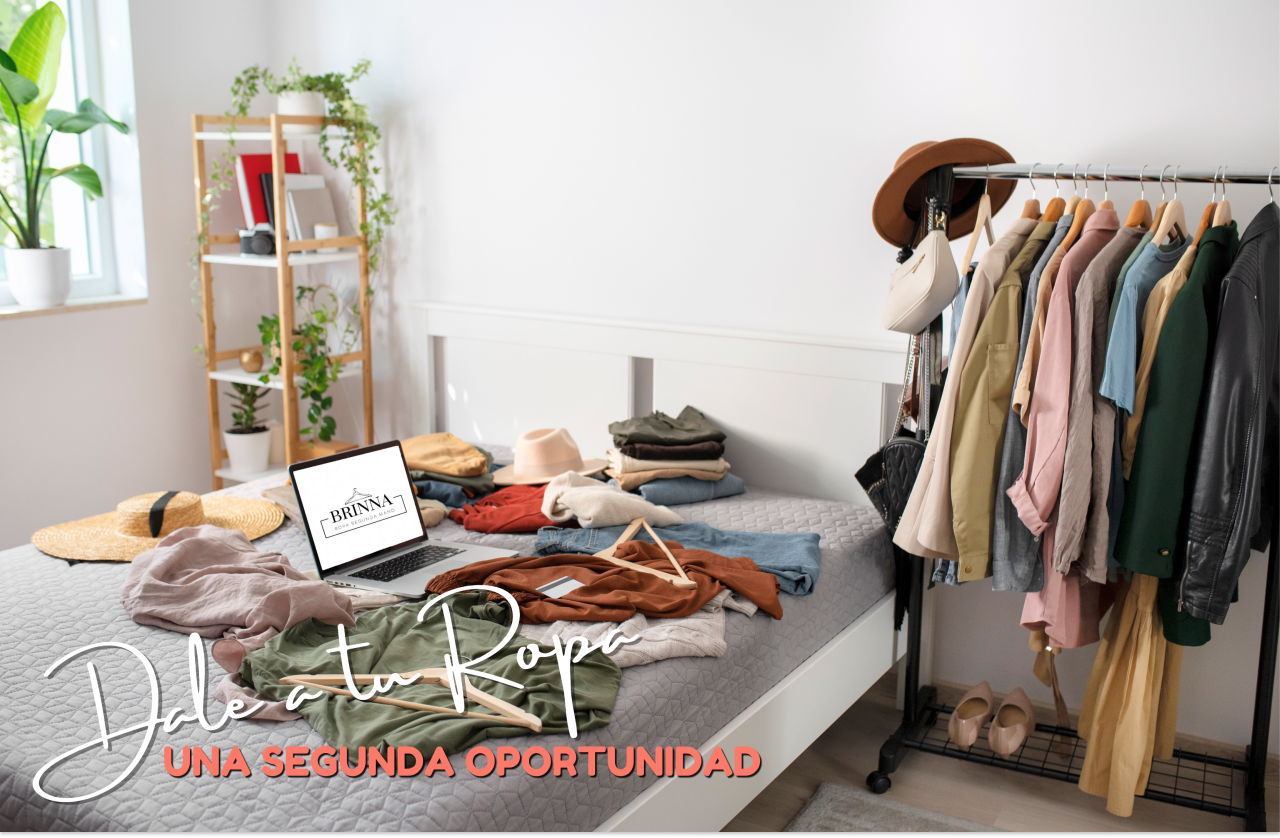
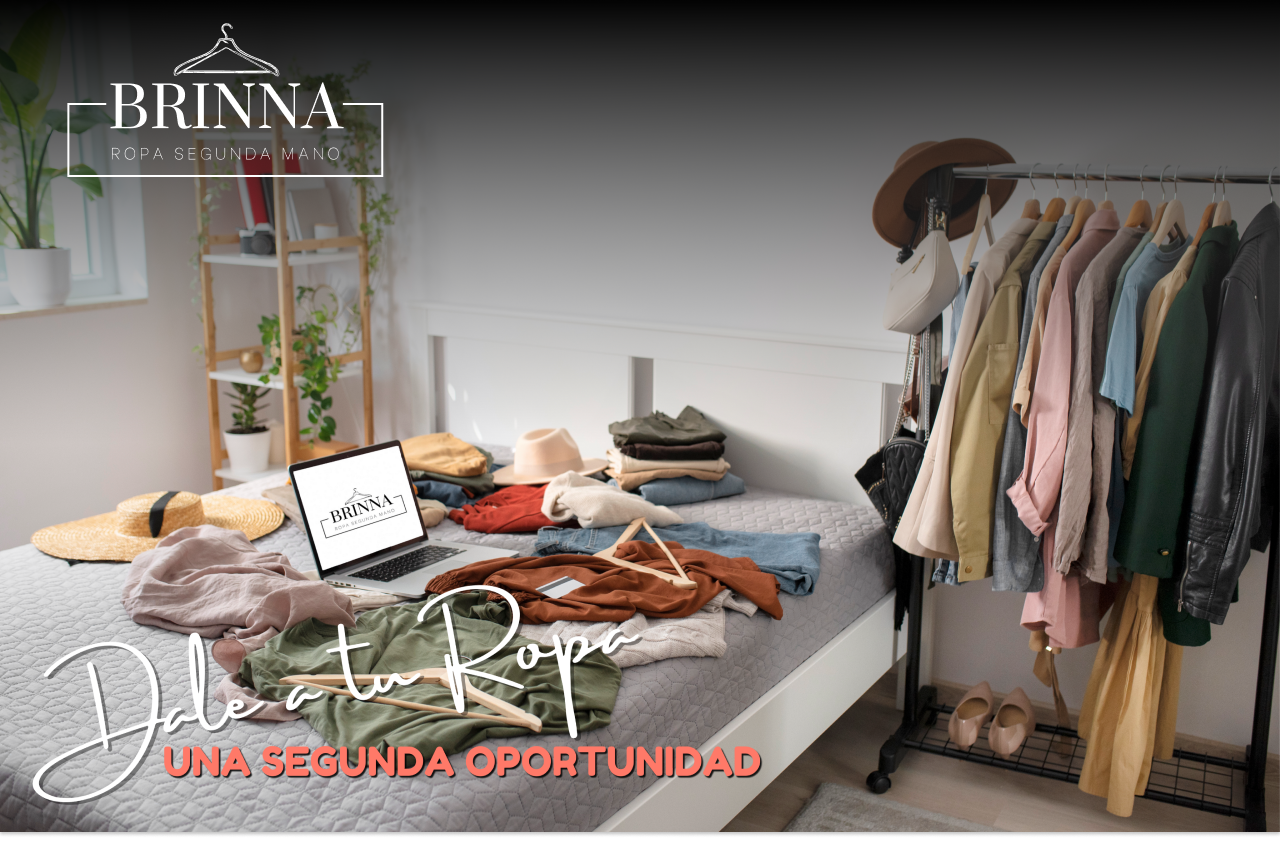
Header

diff --git a/src/components/HeaderHome.js b/src/components/HeaderHome.js
@@ -1,18 +1,50 @@
+"use client"
 import React from 'react'
 import Image from 'next/image'
+import Link from 'next/link';
+import { usePathname } from 'next/navigation'
 
 const HeaderHome = () => {
+    const pathname = usePathname()
+    const links = [
+        {
+            label: "INICIO",
+            href: "/"
+        },
+
+        {
+            label: "CATÁLOGO",
+            href: "/catalogo"
+        },
+
+        {
+            label: "SOBRE NOSOTROS",
+            href: "/nosotros"
+        },
+
+        {
+            label: "CONTACTO",
+            href: "/contacto"
+        }
+    ]
+
     return (
-        <div className="w-full border-b border-white banner-header">
-            <div className='container m-auto flex justify-between items-center '>
-                <p className='text-4xl text-bold text-slate-100 mt-2 mr-2 '>
-                    <Image
-                        src={"/LogoBrinnaNegro.png"}
-                        alt="Logo"
-                        width={160}
-                        height={200}
-                    />
-                </p>
+        <div className="w-full bannerHome">
+            <div className='flex justify-between items-center '>
+                <nav className='flex justify-between gap-2 mt-12 ml-auto mr-10'>
+                    {links.map(link => {
+                        return (
+                            <Link
+                                key={link.label}
+                                href={link.href}
+                                className={`${pathname === link.href ?
+                                        'font-bold underline underline-offset-8 decoration-red-600' : ''} 
+                                        text-base p-3 text-white text-4xl`}>
+                                {link.label}
+                            </Link>
+                        )
+                    })}
+                </nav>
             </div>
         </div>
     )

diff --git a/src/app/globals.css b/src/app/globals.css
@@ -2,7 +2,10 @@
 @tailwind components;
 @tailwind utilities;
 
-
-.banner-header {
-    background-image: url('/images/banner_home.png');
-  }
+.bannerHome {
+  background-image: url("../../public/images/banner_home.png");
+  width: 100%;
+  height: 1080px;
+  background-size: cover;
+  background-position: center;
+}
